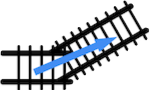
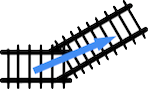
GUI lets you know when train goes over sensor

Changed region(s): [[0.0, 0.0, 1.0, 1.0]]

diff --git a/ControlTrainTask.java b/ControlTrainTask.java
@@ -1,6 +1,9 @@
 import java.io.*;
 import java.util.*;
 import javafx.concurrent.*;
+import javafx.scene.control.RadioButton;
+import javafx.scene.shape.Circle;
+import javafx.scene.text.Text;
 
 public class ControlTrainTask extends Task<Void>{
 
@@ -23,9 +26,13 @@ public class ControlTrainTask extends Task<Void>{
 	//Initialized to -1 because no sensor has a value of -1
 	int lastSensorPassed = -1;
 
-	public ControlTrainTask(int tID){
+	//The main class
+	TrainsGUI gui;
+
+	public ControlTrainTask(int tID, TrainsGUI gui){
 		this.trainID = tID;
 		this.speed = this.spd1;
+		this.gui = gui;
 	}
 
 	PrintWriter out;
@@ -54,7 +61,7 @@ public class ControlTrainTask extends Task<Void>{
 			//Now create paths based on the waypoints
 			trainPaths = createTrainPaths(trainWaypoints);
 
-			//Now we have a list of lists of tracks that are 
+			//Now we have a list of lists of tracks that are
 			//paths from one waypoint to another
 			int currentPathNum = 0;
 			boolean starting = true;
@@ -185,7 +192,7 @@ public class ControlTrainTask extends Task<Void>{
 
 		for(int i = 0; i < path.size();i++){
 			if(path.get(i) instanceof SwitchRightTrack){
-				
+
 				//Going from sideTrack to frontTrack
 				if(path.get(i-1) == ((SwitchRightTrack)path.get(i)).sideTrack &&
 						path.get(i+1) == ((SwitchRightTrack)path.get(i)).frontTrack){
@@ -276,16 +283,32 @@ public class ControlTrainTask extends Task<Void>{
 		System.out.println("-----------------------------");
 		System.out.println("This train: " + this.trainID + " passed over sensor " + sensorID + " going " + direction);
 		System.out.println("-----------------------------");
-		
-		
+
+
 		//Draw this on the GUI
-		
-		
+		String trainColor = gui.trainWaypoint.getColor(54);
+		SensorTrack sensor = null;
+		String sensorString = "sensor" + sensorID;
+
+		//get the specified sensor
+		for(Track t: TrainsGUI.tracks){
+			if(t instanceof SensorTrack && ((SensorTrack)t).lionelID.equals(sensorString)){
+				sensor = (SensorTrack)t;
+			}
+		}
+
+		Circle circ = new Circle(sensor.getLayoutX() + sensor.getWidth()/2, sensor.getLayoutY() + sensor.getHeight()/2, 20);		
+		circ.setStyle("-fx-fill: " + trainColor.substring(22));
+		Text num = new Text(sensor.getLayoutX() + sensor.getWidth()/2 - 10, sensor.getLayoutY() + sensor.getHeight()/2 + 7, Integer.toString(this.trainID));
+		String textStyle = "-fx-font: 20px Arial; -fx-stroke: white; -fx-stroke-width: 2;";
+		num.setStyle(textStyle);
+		gui.trainRunning.trainRunningArea.getChildren().clear();
+		gui.trainRunning.trainRunningArea.getChildren().addAll(TrainsGUI.tracks);
+		gui.trainRunning.trainRunningArea.getChildren().addAll(circ, num);
 	}
 
 	//This method is called whenever the user changes the speed in the UI
 	public void updateSpeed(String id){
-
 		if(id.equals("slow")){
 			this.speed = this.spd1;
 		}
@@ -302,18 +325,18 @@ public class ControlTrainTask extends Task<Void>{
 
 	//This method gets the formatted string of this train's ID
 	//in decimal and pads it with 0s if necessary
-	/*private String getFormattedIDDec(){	
+	private String getFormattedIDDec(){	
 		if(Integer.toString(this.trainID).length() == 1){return "0" + this.trainID;}
 		else{return Integer.toString(this.trainID);}	
-	}*/
+	}
 
 	//This method gets the formatted string of this train's ID
 	//in hexadecimal and pads it with 0s if necessary
-	/*private String getFormattedIDHEx(){
+	private String getFormattedIDHEx(){
 		String hexID = Integer.toHexString(this.trainID);
 		if(hexID.length() == 1){return "0" + hexID;}
 		else{return hexID;}	
-	}*/
+	}
 
 	//This method takes in two tracks and returns the path based on the
 	//shortest distance between those two paths

diff --git a/TrackLayout.java b/TrackLayout.java
@@ -63,7 +63,6 @@ public class TrackLayout{
 
 
 		/************Track Selection Area***********/
-
 		FileInputStream straightStream = new FileInputStream(BASE + STRAIGHT_IMG);
 		Image straight = new Image(straightStream);		
 		ImageView straightImgVw = new ImageView(straight);
@@ -73,9 +72,8 @@ public class TrackLayout{
 		FileInputStream sensorStream = new FileInputStream(BASE + SENSOR_IMG);
 		Image sensor = new Image(sensorStream);
 		ImageView sensorImgVw = new ImageView(sensor);
-		sensorImgVw.setFitHeight(55);
-		sensorImgVw.setFitWidth(50);
-
+		sensorImgVw.setFitHeight(50);
+		sensorImgVw.setFitWidth(55);
 
 		FileInputStream srStream = new FileInputStream(BASE + SWITCHRIGHT_IMG);
 		Image switchRight = new Image(srStream);
@@ -88,7 +86,6 @@ public class TrackLayout{
 		ImageView switchLeftVw = new ImageView(switchLeft);
 		switchLeftVw.setFitHeight(60);
 		switchLeftVw.setFitWidth(100);
-
 
 		FileInputStream crStream = new FileInputStream(BASE + CURVERIGHT_IMG);
 		Image curveRight = new Image(crStream);
@@ -254,7 +251,6 @@ public class TrackLayout{
 			public void changed(ObservableValue<? extends Boolean> ov, Boolean old_val, Boolean new_val){
 				if(new_val){
 					enableDragging(trackLayoutArea);
-
 				}
 				else{
 					disableDragging(trackLayoutArea);
@@ -289,6 +285,8 @@ public class TrackLayout{
 	}
 
 	//Recursive method for DFS
+	//This method is used to make sure that all of the tracks
+	//on the TrackLayout screen are connected
 	public static void DFSrec(ArrayList<Track> visited, Track t){
 
 		visited.add(t);
@@ -317,9 +315,6 @@ public class TrackLayout{
 
 	//This method is used to allow the user to drag on the background
 	//to move around the area in order to input a large track
-	//It needs to be fixed slightly so that you cannot start dragging on the 
-	//background and then continue the drag onto a track
-	//(It should stop once you are dragging on a track)
 	private void enableDragging(Pane p){
 		final ObjectProperty<Point2D> mouseAnchor = new SimpleObjectProperty<>();
 		p.setOnMousePressed(e -> {

diff --git a/TrainWaypoint.java b/TrainWaypoint.java
@@ -1,6 +1,5 @@
 import java.util.*;
 import java.util.concurrent.ConcurrentHashMap;
-
 import javafx.beans.value.*;
 import javafx.geometry.*;
 import javafx.scene.*;
@@ -192,8 +191,8 @@ public class TrainWaypoint{
 			String buttonStyle = ((RadioButton)trainRadioButtonsToggleGroup.getSelectedToggle()).getStyle();
 			Circle circ = new Circle(t.getLayoutX() + t.getWidth()/2, t.getLayoutY() + t.getHeight()/2, 20);
 			circ.setStyle("-fx-fill: " + buttonStyle.substring(22));
-			Text num = new Text(t.getLayoutX() + t.getWidth()/2, t.getLayoutY() + t.getHeight()/2, Integer.toString(counter));
-			String textStyle = "-fx-font: 20px Arial; -fx-stroke: white; -fx-stroke-width: 3;";
+			Text num = new Text(t.getLayoutX() + t.getWidth()/2 - 5, t.getLayoutY() + t.getHeight()/2 + 5, Integer.toString(counter));
+			String textStyle = "-fx-font: 20px Arial; -fx-stroke: white; -fx-stroke-width: 2;";
 			num.setStyle(textStyle);
 			waypointArea.getChildren().addAll(circ, num);
 			counter++;
@@ -206,5 +205,12 @@ public class TrainWaypoint{
 		int g = (int)(Math.random()*255);
 		int b = (int)(Math.random()*255);
 		return "-fx-background-color: rgb("+r+","+g+","+b+");";
+	}
+
+	//This method gets the color of the specified button
+	//Currently just getting the style of the selected
+	//In the future, should be able to get this based on ID
+	public String getColor(int num){
+		return ((RadioButton)trainRadioButtonsToggleGroup.getSelectedToggle()).getStyle();
 	}
 }

diff --git a/TrainRunning.java b/TrainRunning.java
@@ -55,11 +55,9 @@ public class TrainRunning {
 		slowButton.setId("slow");
 		slowButton.setToggleGroup(speedButtonsGroup);
 
-
 		RadioButton mediumButton = new RadioButton("Medium");
 		mediumButton.setId("medium");
 		mediumButton.setToggleGroup(speedButtonsGroup);
-
 
 		RadioButton fastButton = new RadioButton("Fast");
 		fastButton.setId("fast");
@@ -92,7 +90,7 @@ public class TrainRunning {
 		//information instead of this hardcoded one
 		//(That will not be hard)
 		startButton.setOnAction(e-> {
-			ControlTrainTask controlTrainTask54 = new ControlTrainTask(54);
+			ControlTrainTask controlTrainTask54 = new ControlTrainTask(54, gui);
 
 			controlTrainTask54.setOnSucceeded(evt->{
 				System.out.println("controlTrainTask has succeeded");

diff --git a/SensorTrack.java b/SensorTrack.java
@@ -8,8 +8,8 @@ public class SensorTrack extends Track{
 	
 	public SensorTrack(int x, int y, String imgSrc) throws FileNotFoundException{
 		super(x,y,imgSrc);
-		this.setHeight(55);
-		this.setWidth(50);
+		this.setHeight(50);
+		this.setWidth(55);
 		this.numRotations = 12;
 		this.frontOrientation = 0;
 		this.backOrientation = 0;

diff --git a/TrainsGUI.java b/TrainsGUI.java
@@ -5,7 +5,6 @@ import javafx.scene.control.*;
 import javafx.stage.*;
 
 //TODO: Let the user add train ID numbers for each train to the trainWaypoint screen
-//TODO Make sure that we can get information from the sensors
 
 public class TrainsGUI extends Application{
 

diff --git a/IdentifySensorTask.java b/IdentifySensorTask.java
@@ -49,7 +49,7 @@ public class IdentifySensorTask extends Task<Void>{
 
 		//Turn on and off the LED to identify the track
 		out.println(turnOnLEDCommand);	
-		Thread.sleep(1000);
+		Thread.sleep(3000);
 		out.println(turnOffLEDCommand);	
 
 		return null;
